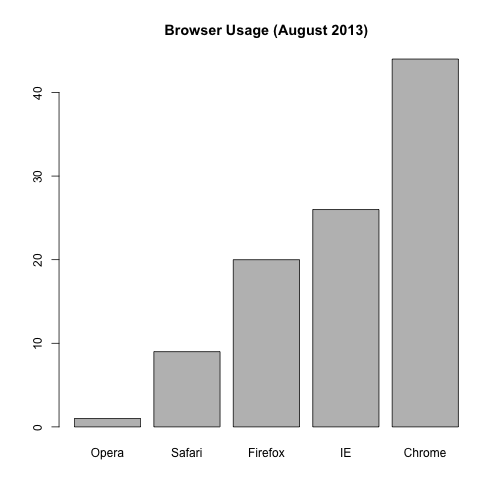
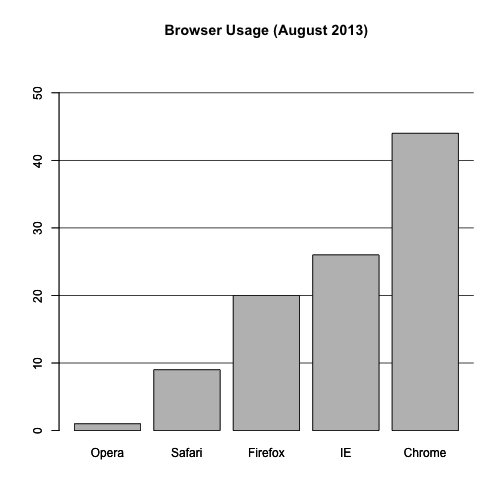
adding plots_to_avoid to book

diff --git a/manuscript/plots_to_avoid.md b/manuscript/plots_to_avoid.md
@@ -16,14 +16,12 @@ This section is based on a talk by [Karl W. Broman](http://kbroman.org/) titled 
 
 ### General Principles
 
-General Principles
-
-The aims of good data graphics is to display data accurately and clearly. Some rules for displaying data badly:
+The aims of good data graphics is to display data accurately and clearly. Some rules for displaying data *badly*:
 
 *  Display as little information as possible.
 *  Obscure what you do show (with chart junk).
-*  Use pseudo-3d and color gratuitously.
-*  Make a pie chart (preferably in color and 3d).
+*  Use pseudo-3D and color gratuitously.
+*  Make a pie chart (preferably in color and 3D).
 *  Use a poorly chosen scale.
 *  Ignore significant figures.
 
@@ -43,10 +41,13 @@ pie(browsers,main="Browser Usage (August 2013)")
 
 Nonetheless, as stated by the help file for the `pie` function:
 
+> "Pie charts are a very bad way of displaying information. The eye is good at judging linear measures and bad at judging relative areas. A bar chart or dot chart is a preferable way of displaying this type of data."
 
-> Pie charts are a very bad way of displaying information. The eye is good at judging linear measures and bad at judging relative areas. A bar chart or dot chart is a preferable way of displaying this type of data.
-
-To see this, look at the figure above and try to determine the percentages just from looking at the plot. Simply showing the numbers is not only clear, but also saves on printing costs.
+To see this, look at the figure above and try to determine the
+percentages just from looking at the plot. Unless the percentages are
+close to 25%, 50% or 75%, this is not so easy.
+Simply showing the numbers is not only clear, but also saves on
+printing costs.
 
 
 ```r
@@ -58,36 +59,50 @@ browsers
 ##       1       9      20      26      44
 ```
 
-If you do want to plot them, then a barplot is appropriate:
+If you do want to plot them, then a barplot is appropriate. Here we
+add horizontal lines at every multiple of 10 and then redraw the bars:
 
 
 ```r
-barplot(browsers,main="Browser Usage (August 2013)")
+barplot(browsers, main="Browser Usage (August 2013)", ylim=c(0,55))
+abline(h=1:5 * 10)
+barplot(browsers, add=TRUE)
 ```
 
 ![Barplot of browser usage.](images/R/plots_to_avoid-tmp-barplot-1.png) 
 
-Note that we can now pretty easily determine the percentages by following a horizontal line to the x-axis. Do avoid 3-D version since it obfuscates the plot and removes this particular advantage.
+Note that we can now pretty easily determine the percentages by
+following a horizontal line to the x-axis. Do avoid a 3D version since
+it obfuscates the plot, making it more difficult to find the
+percentages by eye.
 
-![3-D version](images/downloads/fig2b.png)
-
-
+![3D version](https://raw.githubusercontent.com/kbroman/Talk_Graphs/master/Figs/fig2b.png)
 
 Even worse than pie charts are donut plots.
 
-![Donut plot](images/downloads/360px-Donut-Chart.svg.png)
+![Donut plot](http://upload.wikimedia.org/wikipedia/commons/thumb/1/11/Donut-Chart.svg/360px-Donut-Chart.svg.png)
 
 The reason is that by removing the center, we remove one of the visual cues for determining the different areas: the angles. There is no reason to ever use a donut to display data.
 
 ###  Barplots As Data Summaries
 
-While barplots are useful for showing percentages, they are incorrectly used to display data from two groups being compared. Specifically, barplots are created with height equal to the group means; an antenna is added at the top to represent standard errors. This plot is simply showing two numbers per groups and the plot adds nothing:
+While barplots are useful for showing percentages, they are
+incorrectly used to display data from two groups being
+compared. Specifically, barplots are created with height equal to the
+group means; an antenna is added at the top to represent standard
+errors. This plot is simply showing two numbers per group and the
+plot adds nothing: 
 
-![Bad bar plots](images/downloads/fig1c.png)
+![Bad bar plots](https://raw.githubusercontent.com/kbroman/Talk_Graphs/master/Figs/fig1c.png)
 
-Much more informative is to summarize with a boxplot. If the number of points is small enough, we might as well add them to the plot. When the number of points is too large for us to see them, just showing a boxplot is preferable.
+Much more informative is to summarize with a boxplot. If the number of
+points is small enough, we might as well add them to the plot. When
+the number of points is too large for us to see them, just showing a
+boxplot is preferable. We can even set `range=0` in `boxplot` to avoid
+drawing many outliers when the data is in the range of millions.
 
-First let's download the data:
+Let's recreate these barplots as boxplots. xFirst let's download the data:
+
 
 ```r
 library("downloader")
@@ -114,11 +129,12 @@ Notice how much more we see here: the center, spread, range and the points thems
 
 This problem is magnified when our data has outliers or very large tails. In the plot below there appears to be very large and consistent differences between the two groups:
 
-![Bar plots with outliers](images/downloads/fig3c.png)
+![Bar plots with outliers](https://raw.githubusercontent.com/kbroman/Talk_Graphs/master/Figs/fig3c.png)
 
 However, a quick look at the data demonstrates that this difference is mostly driven by just two points. A version showing the data in the log-scale is much more informative. 
 
 Start by downloading data:
+
 
 ```r
 library(downloader)
@@ -129,6 +145,7 @@ load(filename)
 ```
 
 Now we can show data and boxplots in original scale and log-scale.
+
 
 ```r
 library(rafalib)
@@ -144,12 +161,12 @@ stripchart(dat,vertical=TRUE,method="jitter",pch=16,add=TRUE,col=1)
 
 ![Data and boxplots for original data (left) and in log scale (right).](images/R/plots_to_avoid-tmp-importance_of_log-1.png) 
 
-
 ### Show The Scatter Plot
 
 The purpose of many statistical analyses is to determine relationships between two variables. Sample correlations are typically reported and sometimes plots are displayed to show this. However, showing just the regression line is one way to display your data badly as it hides the scatter. Surprisingly, plots such as the following are commonly seen.
 
 Again start by loading data:
+
 
 ```r
 url <- "https://github.com/kbroman/Talk_Graphs/raw/master/R/fig4.RData"
@@ -174,11 +191,16 @@ fit <- lm(y~x)
 abline(fit$coef,lwd=2)
 ```
 
-<img src="images/R/plots_to_avoid-tmp-show-data-1.png" title="plot of chunk show-data" alt="plot of chunk show-data"  />
+![The plot on the left shows a regression line that was fitted to the data shown on the right. It is much more informative to show all the data.](images/R/plots_to_avoid-tmp-show-data-1.png) 
+
+When there are very many points, the scatter can be shown by binning
+in two dimensions and coloring the bins by the number of points in the
+bin. An example of this is the `hexbin` function in the
+[hexbin package](https://cran.r-project.org/package=hexbin).
 
 ### High Correlation Does Not Imply Replication
 
-When new technologies or laboratory techniques are introduced, we are often shown scatter plots and correlations from replicated samples. High correlations are used to demonstrate that the new technique is reproducible. Correlation, however, can be very misleading. Below is a scatter plot showing data from replicated samples run on a high throughput technology. This technology outputs 12,626 simultaneously measurements.
+When new technologies or laboratory techniques are introduced, we are often shown scatter plots and correlations from replicated samples. High correlations are used to demonstrate that the new technique is reproducible. Correlation, however, can be very misleading. Below is a scatter plot showing data from replicated samples run on a high throughput technology. This technology outputs 12,626 simultaneous measurements.
 
 In the plot on the left, we see the original data which shows very high correlation. Yet the data follows a distribution with very fat tails. Furthermore, 95% of the data is below the green line. The plot on the right is in the log scale:
 
@@ -229,13 +251,24 @@ abline(h=0,col=2,lwd=2)
 
 ![MA plot of the same data shown above shows that data is not replicated very well despite a high correlation.](images/R/plots_to_avoid-tmp-MAplot-1.png) 
 
-These are referred to as Bland-Altman plots or MA plots in the genomics literature, and we will talk more about them later. In this plot we see that the typical difference in the log (base 2) scale between two replicated measures is about 1. This means that when measurements should be the same we will, on average, observe 2 fold difference. We can now compare this variability to the differences we want to detect and decide if this technology is precise enough for our purposes.
+These are referred to as Bland-Altman plots or "MA plots" in the
+genomics literature, and we will talk more about them later. "MA"
+stands for "minus" and "average", because in this plot, the y-axis is
+the difference between two samples on the log scale (the log ratio is
+the difference of the logs), and the x-axis is
+the average of the samples on the log scale.
+In this plot we see that the typical difference in the log (base 2)
+scale between two replicated measures is about 1. This means that when
+measurements should be the same we will, on average, observe 2 fold
+difference. We can now compare this variability to the differences we
+want to detect and decide if this technology is precise enough for our
+purposes. 
 
 ### Barplots For Paired Data
 
 A common task in data analysis is the comparison of two groups. When the dataset is small and data are paired, for example the outcomes before and after a treatment, two color barplots are unfortunately often used to display the results:
 
-![Barplot for two variables](images/downloads/fig6r_e.png)
+![Barplot for two variables](https://raw.githubusercontent.com/kbroman/Talk_Graphs/master/Figs/fig6r_e.png)
 
 There are better ways of showing these data to illustrate that there is an increase after treatment. One is to simply make a scatterplot, which shows that most points are above the identity line. Another alternative is to plot the differences against the before values.
 
@@ -252,13 +285,12 @@ plot(before, after, xlab="Before", ylab="After",
      ylim=li, xlim=li)
 abline(0,1, lty=2, col=1)
 
-
 plot(before, after-before, xlab="Before", ylim=c(-ymx, ymx),
      ylab="Change (After - Before)", lwd=2)
 abline(h=0, lty=2, col=1)
 ```
 
-![For two variables a scatter plot or MA plot is much more informative.](images/R/plots_to_avoid-tmp-scatter-plot-for-two-vars-1.png) 
+![For two variables a scatter plot or a 'rotated' plot similar to an MA plot is much more informative.](images/R/plots_to_avoid-tmp-scatter-plot-for-two-vars-1.png) 
 
 
 Line plots are not a bad choice, although I find them harder to follow than the previous two. Boxplots show you the increase, but lose the paired information.
@@ -276,13 +308,13 @@ segments(rep(0,6), before, rep(1,6), after, col=1)
 boxplot(before,after,names=c("Before","After"),ylab="Response")
 ```
 
-![Another alternative is the lines-plot. If we don't care about pairings, then the boxplot is appropriate.](images/R/plots_to_avoid-tmp-lines-plot-box-plot-1.png) 
+![Another alternative is a line plot. If we don't care about pairings, then the boxplot is appropriate.](images/R/plots_to_avoid-tmp-lines-plot-box-plot-1.png) 
 
 ###  Gratuitous 3D
 
 The figure below shows three curves. Pseudo 3D is used, but it is not clear why. Maybe to separate the three curves? Notice how difficult it is to determine the values of the curves at any given point:
 
-![Gratuitous 3-D](images/downloads/fig8b.png)
+![Gratuitous 3-D](https://raw.githubusercontent.com/kbroman/Talk_Graphs/master/Figs/fig8b.png)
 
 This plot can be made better by simply using color to distinguish the three lines:
 
@@ -309,17 +341,17 @@ legend(1,0.4,c("Drug A","Drug B","Drug C"),lwd=2, col=1:3)
 
 
 
-In this example we generate data with a simulation. We are studying a dose response relationship between two groups: treatment and control. We have three groups of measurements for both control and treatment. Comparing treatment and control using the common barplot:
+In this example we generate data with a simulation. We are studying a dose-response relationship between two groups: treatment and control. We have three groups of measurements for both control and treatment. Comparing treatment and control using the common barplot:
 
-![Ingoring important factors](images/downloads/fig9d.png)
+![Ingoring important factors](https://raw.githubusercontent.com/kbroman/Talk_Graphs/master/Figs/fig9d.png)
 
 Instead we should show each curve. We can use color to distinguish treatment and control and dashed and solid lines to distinguish the original data from the mean of the three groups.
 
 
 ```r
 plot(x, y1, ylim=c(0,1), type="n", xlab="Dose", ylab="Response") 
-for(i in 1:3) lines(x, z[,i], col=1, lwd=1, lty=2)
-for(i in 1:3) lines(x, y[,i], col=2, lwd=1, lty=2)
+for(i in 1:3) lines(x, y[,i], col=1, lwd=1, lty=2)
+for(i in 1:3) lines(x, z[,i], col=2, lwd=1, lty=2)
 lines(x, ym, col=1, lwd=2)
 lines(x, zm, col=2, lwd=2)
 legend("bottomleft", lwd=2, col=c(1, 2), c("Control", "Treated"))
@@ -395,7 +427,6 @@ Graphics Press.
 Turning tables into graphs. The American Statistician 56:121-130
 * NB Robbins (2004) Creating more effective graphs. Wiley
 * [Nature Methods columns](http://bang.clearscience.info/?p=546) 
-
 
 
 ## Misunderstanding Correlation (Advanced)
